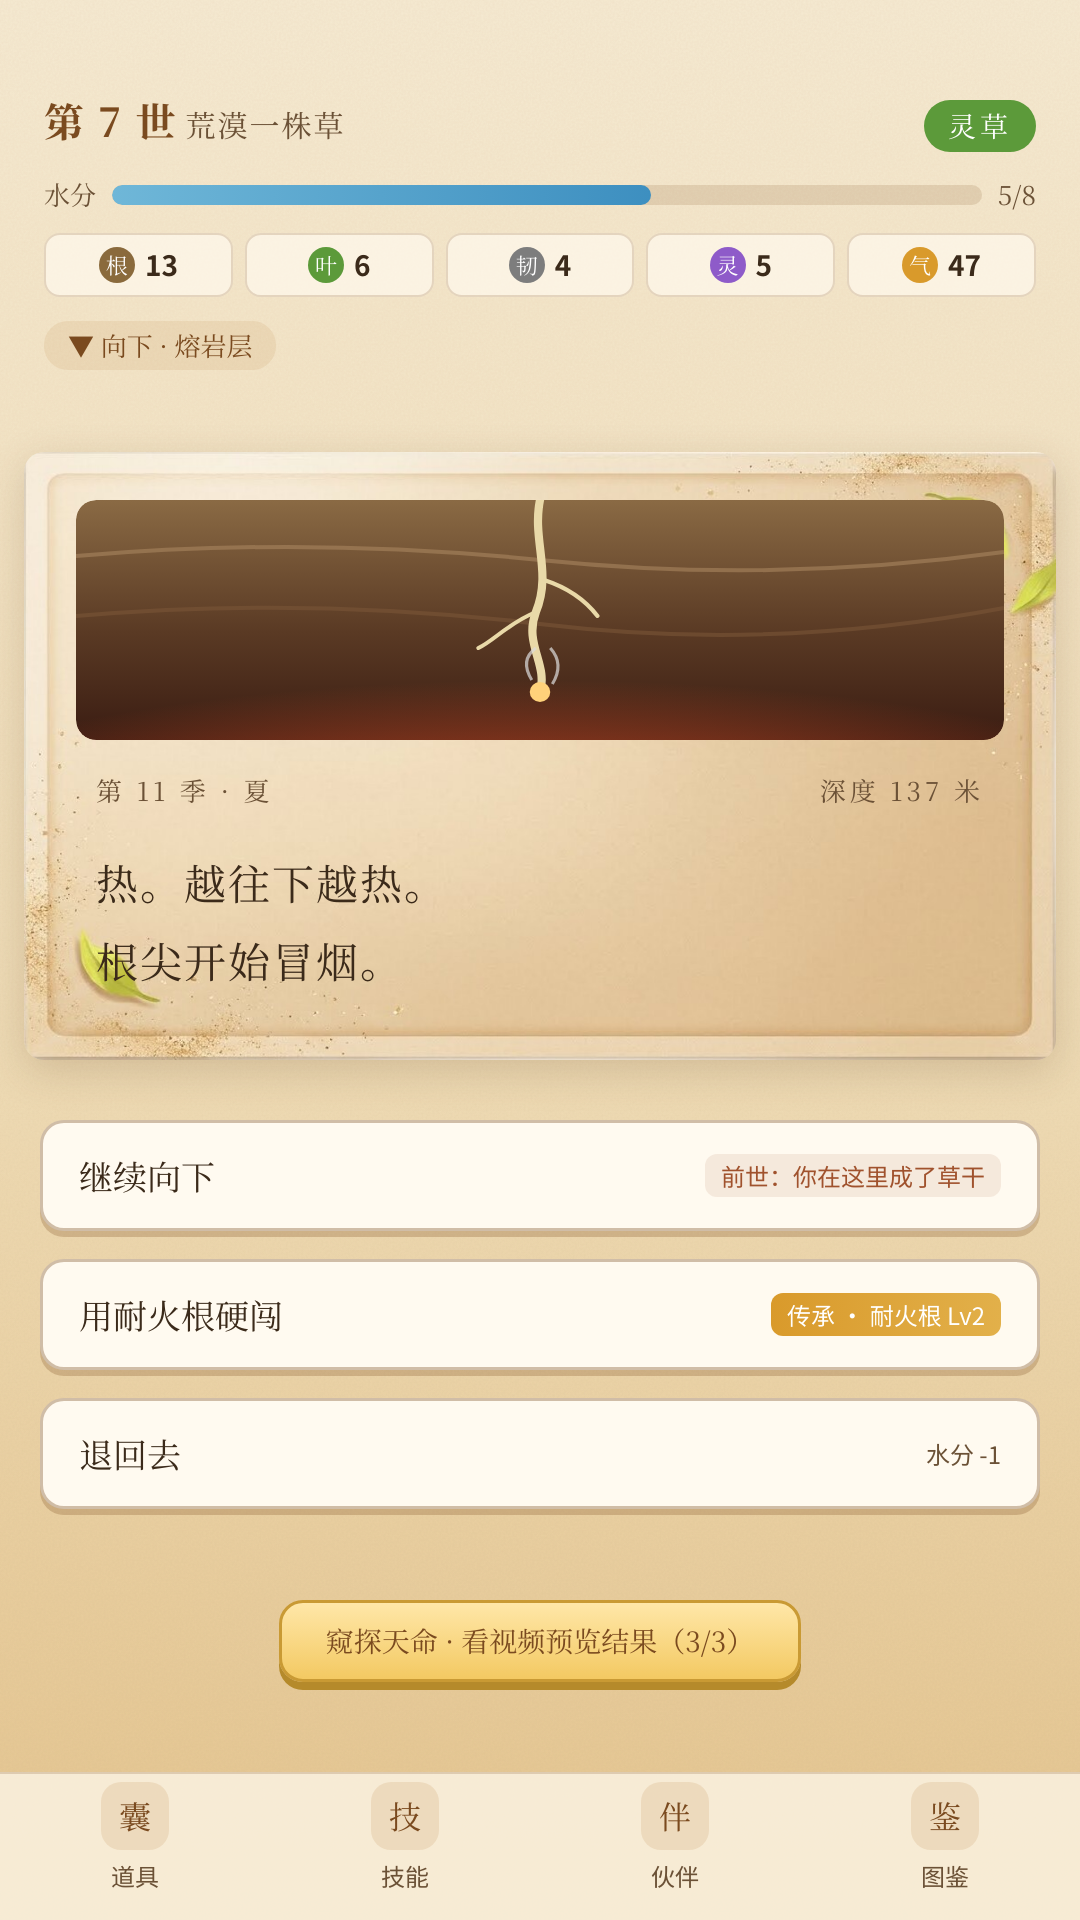
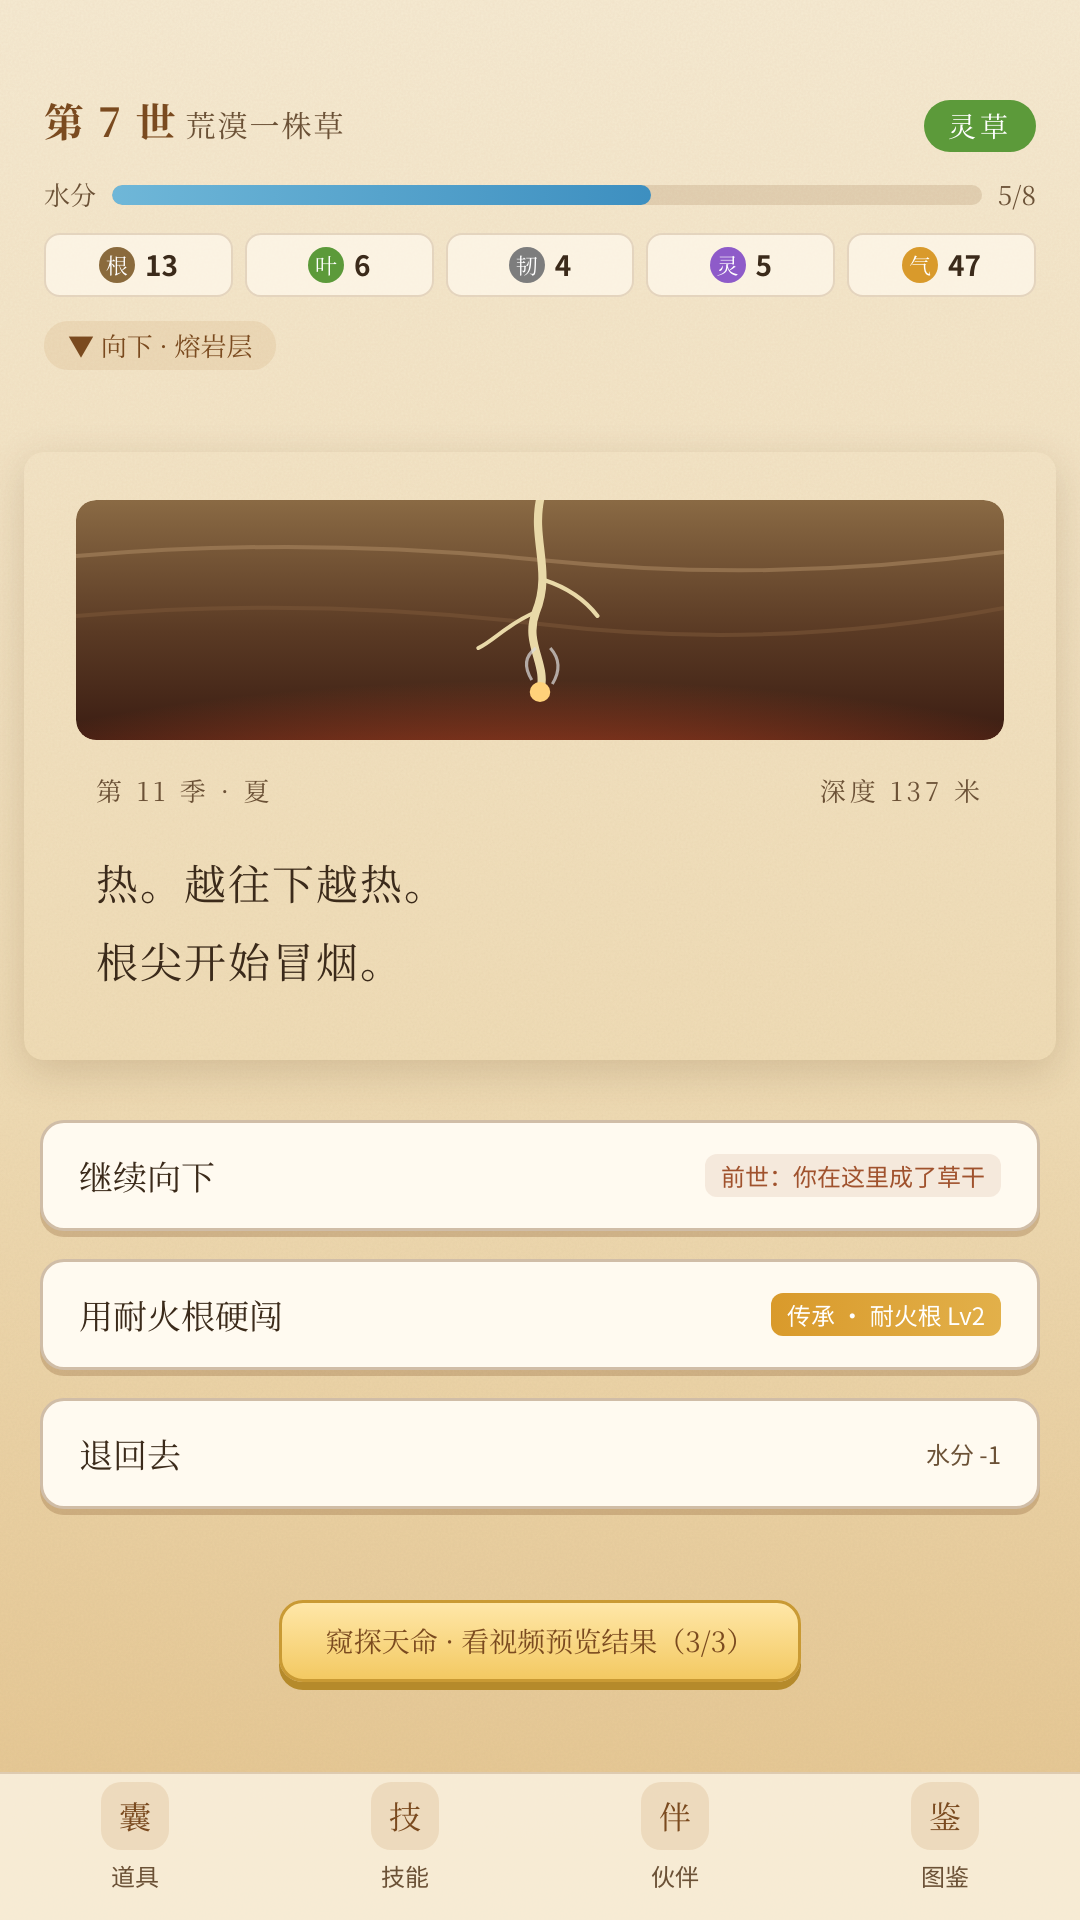
贴图体检脚本 + 修复检出问题
- 新增 npm run art:check（tools/art/check_art.py）：比例、透明角、内容贴边、空图/纯色、
  体积、主包分包重复、剧本引用缺图、首屏背景是否在主包
- 土狗 stage_3 神犬右侧被裁切 → 缩小居中重绘
- 删除荒漠专属 epitaph_card（3:4 竖版，会被比例保护跳过的死文件）
- 事件卡金/突发、通用墓志铭卡去掉噪点层：体积 520KB→约 300KB，观感不变
- 备案截图按新贴图重渲染

Changed region(s): [[0.0, 0.2188, 0.9778, 0.5625], [0.0, 0.2188, 0.3667, 0.375]]

diff --git a/tools/art/check_art.py b/tools/art/check_art.py
@@ -1,0 +1,129 @@
+#!/usr/bin/env python3
+"""贴图体检：比例 / 透明角 / 内容是否被裁切 / 是否空图 / 体积 / 剧本引用是否缺图。
+用法：python3 tools/art/check_art.py        （有问题时退出码 1）
+"""
+import json, os, re, sys
+from PIL import Image
+
+ROOT = os.path.abspath(os.path.join(os.path.dirname(__file__), '../..'))
+BUNDLES = [os.path.join(ROOT, 'assets', b, 'textures') for b in ('resources', 'subres')]
+DATA = os.path.join(ROOT, 'assets/resources/data/destinies')
+
+# (路径正则, 期望宽高比 或 None, 是否要求四角透明, 是否检查内容贴边)
+RULES = [
+    (r'destiny/[^/]+/(main_bg|settle_bg|settle_bg_ending)$', 9 / 16, False, False),
+    (r'destiny/[^/]+/cover$', 1, False, False),
+    (r'destiny/[^/]+/stage_\d$', 1, True, True),
+    (r'destiny/[^/]+/companion_\w+$', 1, True, True),
+    (r'destiny/[^/]+/epitaph_card$', 2.3, False, False),
+    (r'common/ui/(event_card|event_card_gold|event_card_sudden|epitaph_card|ending_card)$', 3 / 2, None, False),
+    (r'common/ui/btn_\w+$', 2, True, False),
+    (r'common/ui/(panel|settle_panel)$', None, True, False),
+    (r'common/ui/logo_title$', None, True, True),
+    (r'common/ui/share_cover$', 5 / 4, False, False),
+    (r'common/ui/age_\d+$', None, None, False),
+    (r'common/frame/frame_\w+$', 2 / 3, True, False),
+    (r'common/frame/badge_\w+$', 1, True, True),
+    (r'common/fx/\w+$', 1, False, False),
+    (r'common/icon/\w+$', 1, True, True),
+]
+MAX_KB = {'.jpg': 320, '.png': 400}
+TOL = 0.08
+
+errors, warns = [], []
+
+
+def rel_of(path):
+    for b in BUNDLES:
+        if path.startswith(b + os.sep):
+            return os.path.splitext(os.path.relpath(path, b))[0].replace(os.sep, '/')
+    return None
+
+
+def check(path):
+    rel = rel_of(path)
+    ext = os.path.splitext(path)[1].lower()
+    kb = os.path.getsize(path) / 1024
+    im = Image.open(path)
+    w, h = im.size
+    rule = next((r for r in RULES if re.search(r[0], rel)), None)
+    if not rule:
+        warns.append(f'{rel}: 没有对应的检查规则')
+        return
+    _, ratio, need_alpha, edge = rule
+    if ratio and abs((w / h) / ratio - 1) > TOL:
+        (errors if 'destiny' not in rel or 'bg' not in rel else warns).append(
+            f'{rel}: 比例 {w}x{h}={w / h:.3f}，期望 {ratio:.3f}')
+    if kb > MAX_KB.get(ext, 400):
+        warns.append(f'{rel}: 体积 {kb:.0f}KB 偏大')
+    rgba = im.convert('RGBA')
+    a = rgba.getchannel('A')
+    corners = [a.getpixel(p) for p in ((0, 0), (w - 1, 0), (0, h - 1), (w - 1, h - 1))]
+    if need_alpha and max(corners) > 8:
+        errors.append(f'{rel}: 四角不透明 {corners}（应为透明底）')
+    if need_alpha is False and ext == '.png' and min(corners) < 250:
+        warns.append(f'{rel}: 应为不透明底图，但四角透明')
+    bbox = a.point(lambda v: 255 if v > 24 else 0).getbbox()
+    if not bbox:
+        errors.append(f'{rel}: 空图（完全透明）')
+        return
+    if edge:
+        x0, y0, x1, y1 = bbox
+        touch = sum([x0 <= 0, y0 <= 0, x1 >= w, y1 >= h])
+        if touch >= 1 and need_alpha:
+            errors.append(f'{rel}: 内容贴边 {bbox}（可能被裁切）')
+    # 几乎纯色 = 渲染失败
+    small = rgba.resize((32, 32))
+    px = [p for p in small.getdata() if p[3] > 24]
+    if px:
+        lum = [0.3 * p[0] + 0.59 * p[1] + 0.11 * p[2] for p in px]
+        if max(lum) - min(lum) < 12:
+            errors.append(f'{rel}: 几乎是纯色，可能渲染失败')
+
+
+def all_files():
+    out = {}
+    for b in BUNDLES:
+        for d, _, fs in os.walk(b):
+            for f in fs:
+                if f.endswith(('.png', '.jpg')):
+                    p = os.path.join(d, f)
+                    r = rel_of(p)
+                    if r in out:
+                        errors.append(f'{r}: 主包和分包重复（{out[r]} / {p}）')
+                    out[r] = p
+    return out
+
+
+files = all_files()
+for p in files.values():
+    check(p)
+
+# 剧本引用
+L = lambda x: x if isinstance(x, list) else list(x.values())[0]
+index = json.load(open(os.path.join(DATA, 'index.json')))
+for ent in index['destinies']:
+    did = ent['id']
+    base = os.path.join(DATA, did)
+    meta = json.load(open(os.path.join(base, 'destiny.json')))
+    need = [f'destiny/{did}/{n}' for n in ('main_bg', 'settle_bg', 'settle_bg_ending', 'cover')]
+    need += [f'destiny/{did}/stage_{s["level"]}' for s in meta['stages'] if s['level'] > 0]
+    need += [f'destiny/{did}/companion_{c["id"]}' for c in L(json.load(open(os.path.join(base, 'companions.json'))))]
+    need += [f'common/icon/death_{d["icon"]}' for d in meta['deaths'] if d.get('icon')]
+    need += [f'common/icon/stat_{a["stat"]}' for a in meta['attrs'] if a.get('stat')]
+    for fn, cat in (('skills', 'skill'), ('items', 'item'), ('talents', 'talent')):
+        need += [f'common/icon/{cat}_{e["icon"]}' for e in L(json.load(open(os.path.join(base, fn + '.json')))) if e.get('icon')]
+    for n in need:
+        if n not in files:
+            errors.append(f'缺图：{n}（{did} 引用）')
+    if f'destiny/{did}/main_bg' in files and 'resources' not in files[f'destiny/{did}/main_bg']:
+        errors.append(f'destiny/{did}/main_bg 应放主包（首屏）')
+
+main_kb = sum(os.path.getsize(p) for p in files.values() if '/resources/' in p) / 1024
+print(f'检查 {len(files)} 张贴图，主包贴图 {main_kb:.0f}KB')
+for w in warns:
+    print('  ⚠', w)
+for e in errors:
+    print('  ✗', e)
+print('  ✔ 无问题' if not errors else f'  共 {len(errors)} 个问题')
+sys.exit(1 if errors else 0)

diff --git a/docs/art/ai-image-prompts.md b/docs/art/ai-image-prompts.md
@@ -28,7 +28,7 @@
 | `ending_card` | 通用 | ✅ `common/ui/ending_card.png` | 顶部叶形徽记视为「新生」符号；介意的话局部重绘成一团光 |
 | `settle_bg` | 荒漠一株草 | ✅ `destiny/desert_grass/settle_bg.jpg` | |
 | `settle_bg_ending` | 荒漠一株草 | ✅ `destiny/desert_grass/settle_bg_ending.jpg` | 比例 3:4，有空重生成 9:16 |
-| `epitaph_card` | 荒漠一株草 | ⚠ `destiny/desert_grass/epitaph_card.jpg` | 带枯草和荒漠背景、竖版，只适合小草。**通用版见 §1.3 重新生成** |
+| `epitaph_card` | 荒漠一株草 | ✗ 已删除 | 竖版 3:4 与墓志铭卡横版位置不符，代码比例保护会跳过它，属于死文件；统一回落通用石板 |
 
 ### SVG 程序化生成（78 张，已入库可用）
 
